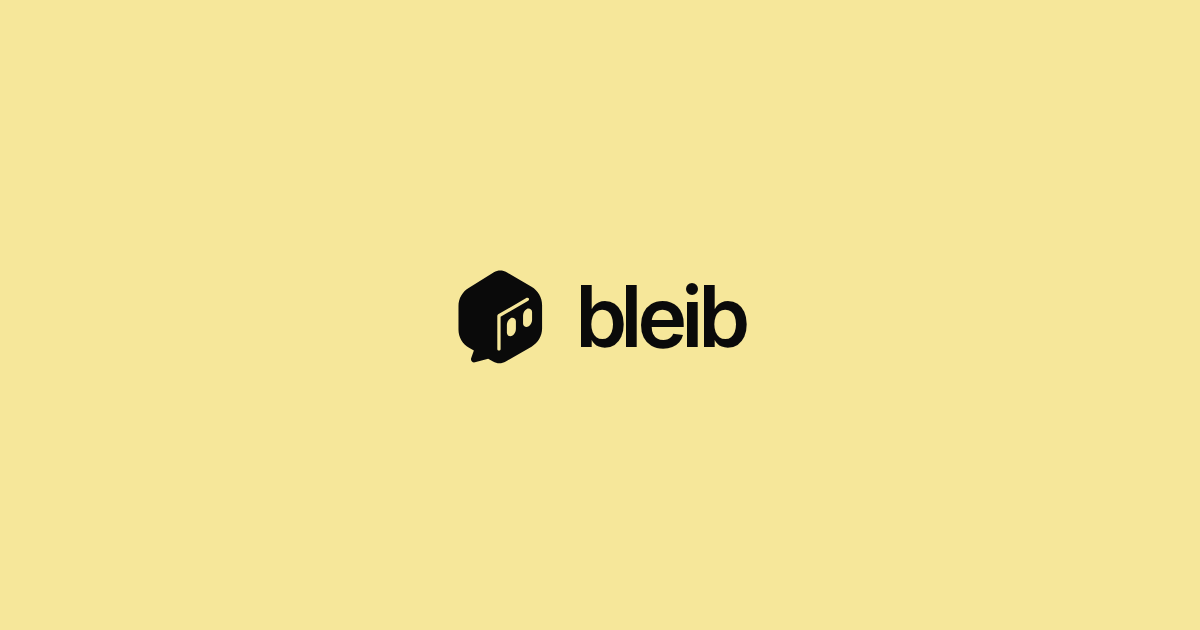
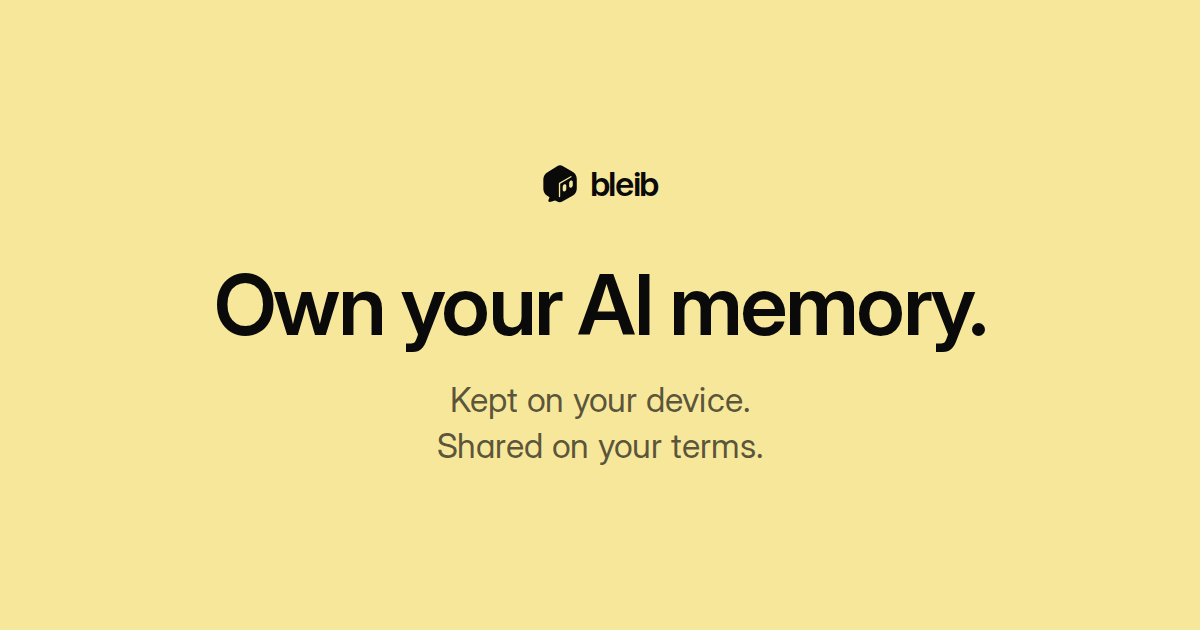
feat(site): shared links lead with the hero promise, in English and German
- Share title 'bleib: Own your AI memory.' (DE 'bleib: Dein KI-Gedächtnis
  gehört dir.'), description: the hero line plus 'A free browser extension for
  Chrome and Firefox.' The page title keeps 'your AI memory wallet' for search.
- og.png and og-de.png show the logo, headline and line; generate-og renders
  both from the built homepages. Subpages keep their own titles.

diff --git a/site/src/i18n/strings.ts b/site/src/i18n/strings.ts
@@ -26,6 +26,12 @@ export type RouteKey = keyof typeof routes;
 const en = {
   meta: {
     title: 'bleib: your AI memory wallet',
+    /** What a shared link shows (the homepage): the hero's promise, not the category. */
+    share: {
+      title: 'bleib: Own your AI memory.',
+      description: 'Kept on your device. Shared on your terms. A free browser extension for Chrome and Firefox.',
+      alt: 'bleib: Own your AI memory. Kept on your device. Shared on your terms.',
+    },
     description:
       'bleib is your AI memory wallet: a browser extension that keeps your memory encrypted on your device. You decide what each AI can know, and you can always check what it saw. Free and open source.',
   },
@@ -208,6 +214,11 @@ export type Strings = typeof en;
 const de: Strings = {
   meta: {
     title: 'bleib: dein Wallet für dein KI-Gedächtnis',
+    share: {
+      title: 'bleib: Dein KI-Gedächtnis gehört dir.',
+      description: 'Auf deinem Gerät. Geteilt, wie du willst. Eine kostenlose Browser-Erweiterung für Chrome und Firefox.',
+      alt: 'bleib: Dein KI-Gedächtnis gehört dir. Auf deinem Gerät. Geteilt, wie du willst.',
+    },
     description:
       'bleib ist dein Wallet für dein KI-Gedächtnis: eine Browser-Erweiterung, die dein Gedächtnis verschlüsselt auf deinem Gerät bewahrt. Du entscheidest, was jede KI wissen darf, und kannst jederzeit nachsehen, was sie gesehen hat. Kostenlos und Open Source.',
   },
